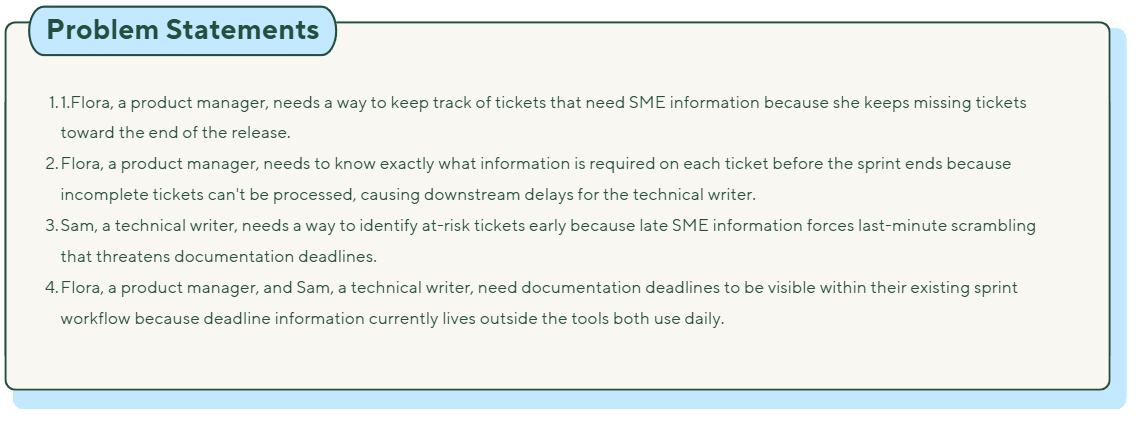
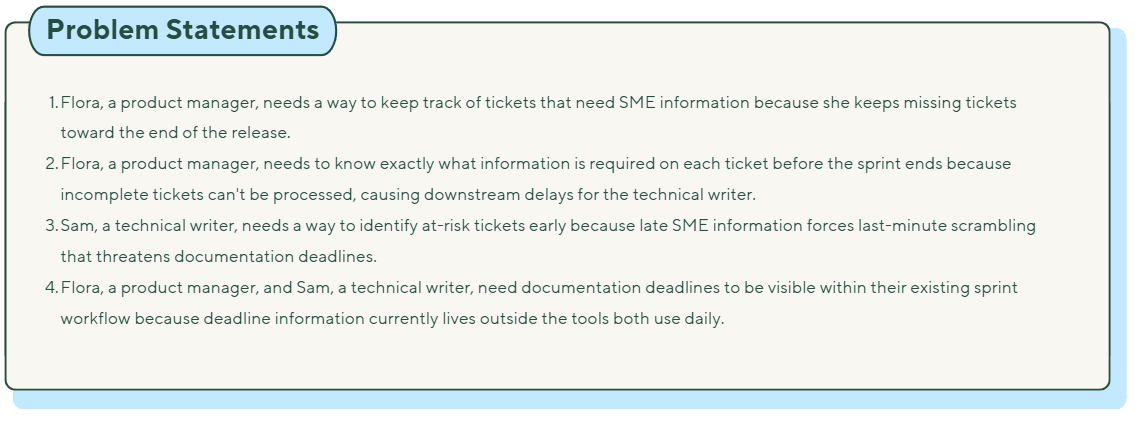
Fix homepage and case studies

Changed region(s): [[0.0614, 0.2136, 0.8904, 0.2746]]

diff --git a/src/app/pages/about.html b/src/app/pages/about.html
@@ -44,13 +44,14 @@
       <h2 class="about__heading">Let's get closer <span aria-hidden="true"></span></h2>
 
       <div class="lets-get-closer">
-        <blockquote class="closer__quote">
-          I enjoy learning about other cultures and frequently watch shows from different countries. 
+        <div class="closer__quote">
+          <p>I enjoy learning about other cultures and frequently watch shows from different countries. 
           Let's just say, subtitles were a game-changer. I also love listening to audiobooks, going for 
-          hikes, and lately I started my journey in watercolor. I typically mix my PC work with hands-on 
+          hikes, and lately I started my journey in watercolor.</p> 
+          <p>I typically mix my PC work with hands-on 
           activities like gardening, puzzles, embroidery, and drawing. I have two crazy cats and love watching 
-          the birds that frequent my bird feeder.
-        </blockquote>
+          the birds that frequent my bird feeder.</p>
+        </div>
 
         <img src="watercolor.jpg">
       </div>

diff --git a/src/app/pages/homepage.scss b/src/app/pages/homepage.scss
@@ -18,6 +18,7 @@
     flex-direction: column;
     align-items: center;
     gap: 4rem;
+    justify-content: center;
 
     @media (min-width: 48rem) {
         flex-direction: row;
@@ -49,7 +50,7 @@
 
     &__content {
         flex: 1;
-        max-width: 42rem;
+        max-width: 60rem;
         animation: fadeSlideRight 0.6s 0.2s ease both;
     }
 
@@ -86,6 +87,14 @@
         line-height: 1.6;
         font-weight: 400;
     }
+}
+
+.heading-upper {
+    margin-bottom: 4rem;
+}
+
+.smaller-font {
+    font-size: clamp(1.75rem, 4vw, 2.5rem);
 }
 
 .work {

diff --git a/src/app/components/header-component.scss b/src/app/components/header-component.scss
@@ -12,6 +12,12 @@
   animation: fadeSlideDown 0.5s ease both;
   box-sizing: border-box;
 
+  .header-image {
+    max-height: 4rem;
+    max-width: 4rem;
+    border-radius: 50%;
+  }
+
   @media (min-width: 48rem) {
     padding: 1.5rem 2rem;
   }
@@ -23,6 +29,9 @@
     flex-shrink: 0;
     white-space: nowrap;
     transition: all 0.3s ease;
+    display: flex;
+    align-items: center;
+    gap: 1rem;
 
     &:hover {
         cursor: pointer;

diff --git a/src/app/pages/help-center-case-study-page.html b/src/app/pages/help-center-case-study-page.html
@@ -4,7 +4,7 @@
         [subtitle]="'Content audit and Information Architecture (IA) redesign across RMIS and Billing that surfaced client needs ahead of formal feedback'"
         [company]="'Origami Risk'"
         [year]="'2025'"
-        [summary]="'RMIS and Billing Help Center sections had significant content gaps and organizational structures that did not reflect how users approach tasks. Conducted a three-source content audit comparing Help Center content against the Product Listing spreadsheet and release notes. Collaborated with Product Managers to validate findings and prioritize remediation. Redesigned the Billing section from four unstructured folders into six task-oriented sections. Executed three research-informed sprints across both areas. Research findings aligned with gaps independently identified by an internal stakeholder four months later.'"
+        [summary]="'RMIS and Billing Help Center sections had significant content gaps and organizational structures that did not reflect how users approach tasks. Conducted a three-source content audit comparing Help Center content against the Product Listing spreadsheet and release notes. Collaborated with Product Managers to validate findings and prioritize remediation. Redesigned the Billing section from four unstructured folders into six task-oriented sections. Three research-informed sprints were completed from the research plan across both areas. Research findings aligned with gaps independently identified by an internal stakeholder four months later.'"
         [tags]="skills">
     </app-case-study-hero-component>
 
@@ -28,7 +28,7 @@
                 alt="Email from Senior Client Executive Michael Winn providing feedback on the Policy Billing Help Center section" />
             <figcaption>
                 Four months after the audit began, an internal Senior Client Executive independently reported
-                the same gaps the research had already surfaced, after reviewing the Help Center on behalf of
+                the same gaps my research had already surfaced, after reviewing the Help Center on behalf of
                 a client.
             </figcaption>
         </figure>
@@ -121,7 +121,7 @@
             A client-reported gap, submitted four months after the audit began, independently confirmed the
             research had identified real user needs ahead of formal feedback.</p>
         <p>Following the IA redesign, the logical next research step would have been to validate the new
-            structure with users. The Maze study below represents that validation design — built to test
+            structure with users. The Maze study below represents that validation design which was built to test
             whether the six-area Billing framework improved findability relative to the original unstructured
             folders.</p>
     </section>
@@ -132,6 +132,7 @@
                 <source src="maze-survey.mp4" type="video/mp4" />
             </video>
         </div>
+        <p class="caption">This demonstration tree test was designed to show the validation approach, including tasks, questions, and flow, but was not run with live participants.</p>
     </section>
 
     <section class="paragraph">

diff --git a/src/app/pages/homepage.html b/src/app/pages/homepage.html
@@ -2,13 +2,16 @@
     <main class="home__main">
 
         <section class="hero">
-            <div class="hero__image-wrapper">
+            <!--<div class="hero__image-wrapper">
                 <div class="hero__halo hero__halo--gold"></div>
                 <div class="hero__halo hero__halo--coral"></div>
                 <img src="pfp.jpg"
                     alt="Meghan Neuman - UX Researcher" class="hero__image" />
-            </div>
+            </div>-->
             <div class="hero__content">
+                <h1 class="hero__heading smaller-font heading-upper">
+                    Hi, I'm Meghan!
+                </h1>
                 <h1 class="hero__heading">
                     Technical writing brought me to UX research, and once I arrived, it felt 
                     less like a career change and more like putting a name to <span class="highlight">something I'd 

diff --git a/src/app/pages/help-center-case-study-page.scss b/src/app/pages/help-center-case-study-page.scss
@@ -188,6 +188,12 @@
     }
   }
 
+  .caption {
+    color: var(--text-secondary);
+    text-align: center;
+    margin-bottom: 2rem;
+  }
+
   @media (max-width: 48rem) {
     padding: 3rem 1.25rem 4rem;
 

diff --git a/src/app/components/header-component.html b/src/app/components/header-component.html
@@ -1,5 +1,8 @@
 <header class="header">
-  <div (click)="onNavButtonClick('')" class="header__brand">Meghan Neuman</div>
+  <div (click)="onNavButtonClick('')" class="header__brand">
+    <img class="header-image" src="pfp.jpg">
+    Meghan Neuman
+  </div>
   <nav class="header__nav">
     <a (click)="onWorkClick()" class="header__nav-link">Work</a>
     <!--<a (click)="onNavButtonClick('resume')" class="header__nav-link">Resume</a>-->

diff --git a/src/app/pages/release-notes-process-case-study-page.html b/src/app/pages/release-notes-process-case-study-page.html
@@ -43,7 +43,7 @@
     <section class="artifact artifact--document flex-center">
         <img src="problem-statement.png"/>
         <p class="artifact__caption">Using the HMW questions, I defined the key user roles and narrowed
-            down my problem statements to these four:</p>
+            down my problem statements to just four.</p>
     </section>
 
     <section class="paragraph">

diff --git a/src/app/pages/about.scss b/src/app/pages/about.scss
@@ -180,7 +180,6 @@
     padding: 2rem;
     font-family: Georgia, 'Times New Roman', serif;
     font-size: 1.0625rem;
-    font-style: italic;
     color: var(--stone-600);
     line-height: 1.75;
     margin: 0;